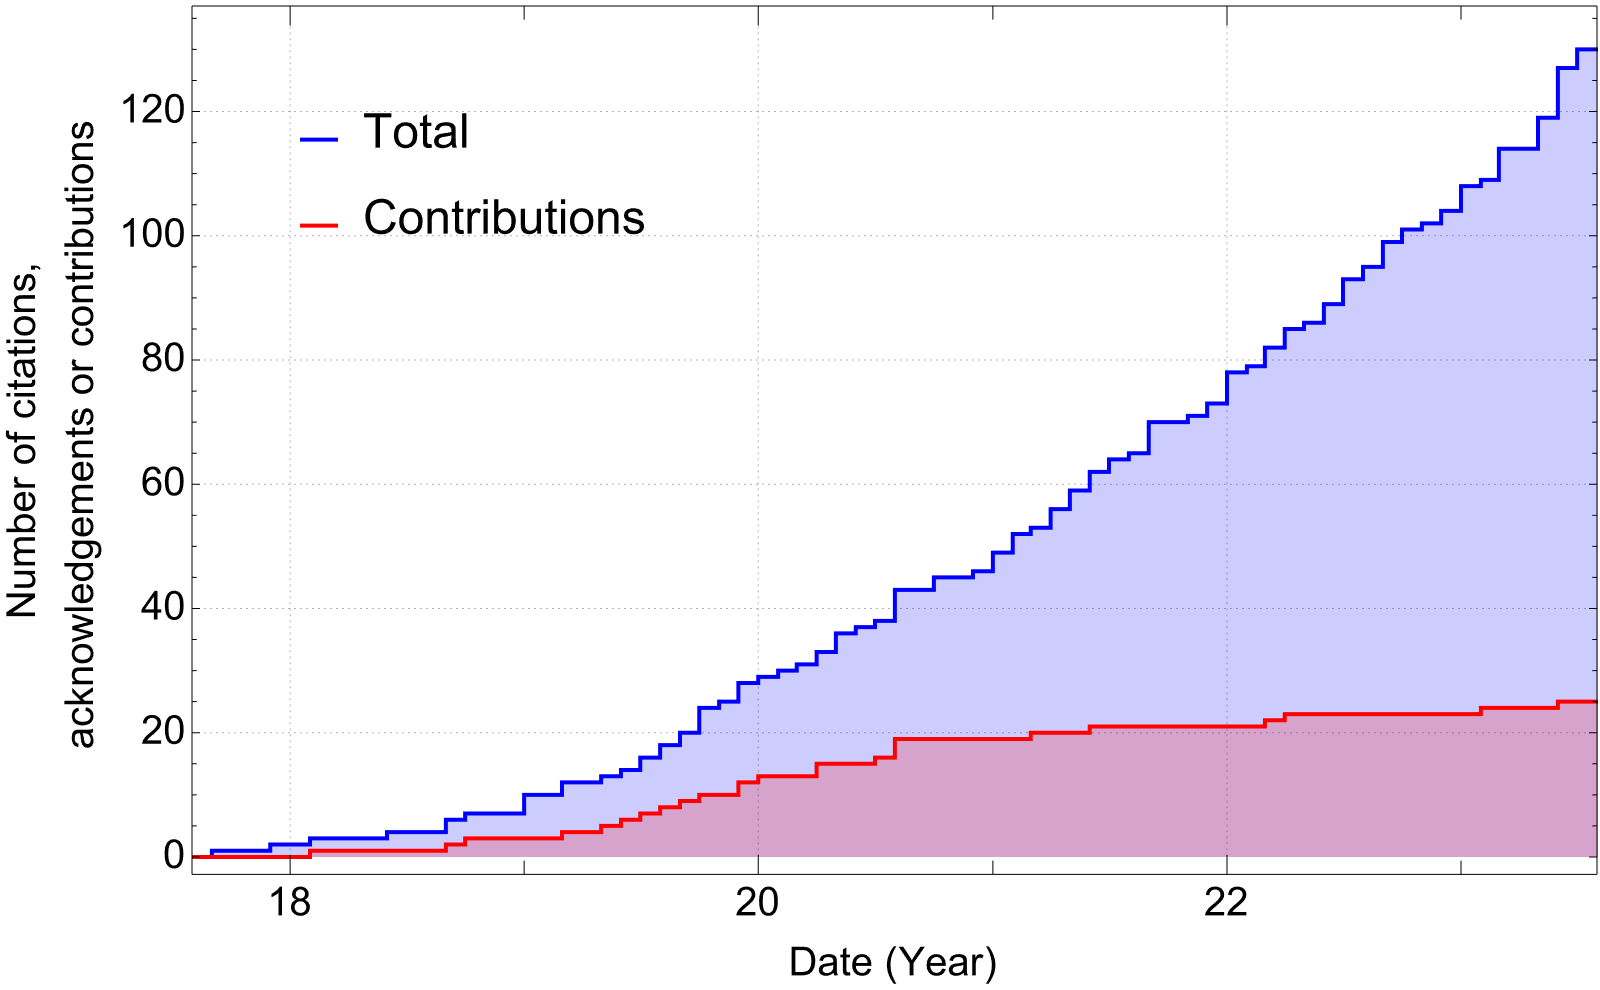
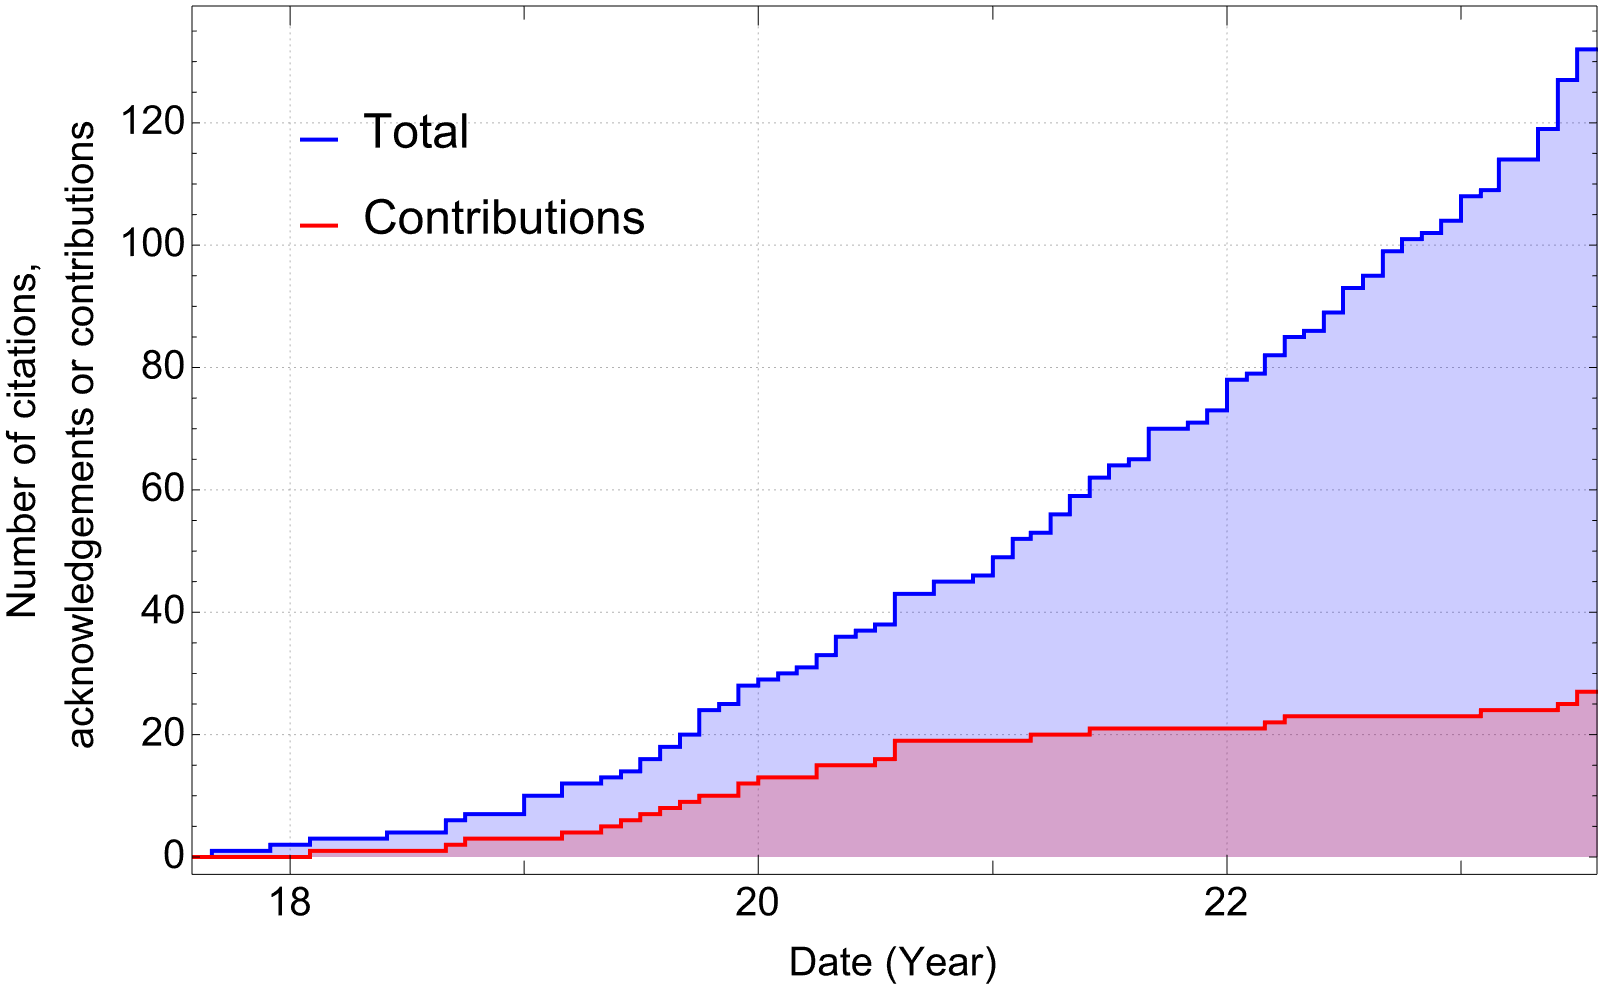
Add two papers that cite the Toolkit

diff --git a/users.md b/users.md
@@ -19,6 +19,10 @@ The graph below show the accumulated citations to the Toolkit over time. The blu
 
 Below is a list of research papers that have used or extended the Toolkit. Papers that have contributed code or data to the Toolkit have a (*) after them.
 
+132\. "Fast and Fourier: Extreme Mass Ratio Inspiral Waveforms in the Frequency Domain", Lorenzo Speri, Michael L. Katz, Alvin J. K. Chua, Scott A. Hughes, Niels Warburton, Jonathan E. Thompson, Christian E. A. Chapman-Bird, Jonathan R. Gair, [arXiv:2307.12585](https://arxiv.org/abs/2307.12585) (*)
+
+131\. "High-order post-Newtonian expansion of the generalized redshift invariant for eccentric-orbit, equatorial extreme-mass-ratio inspirals with a spinning primary", Christopher Munna, [arXiv:2307.11158](https://arxiv.org/abs/2307.11158) (*)
+
 130\. "Quasinormal modes of rotating black holes in higher-derivative gravity", Pablo A. Cano, Kwinten Fransen, Thomas Hertog, Simon Maenaut, [arXiv:2307.07431](https://arxiv.org/abs/2307.07431)
 
 129\. "Strongly-Lensed Extreme Mass-ratio Inspirals", Martina Toscani, Ollie Burke, Chang Liu, Nour Bou Zamel, Nicola Tamanini, Federico Pozzoli, [arXiv:2307.06722](https://arxiv.org/abs/2307.06722)
